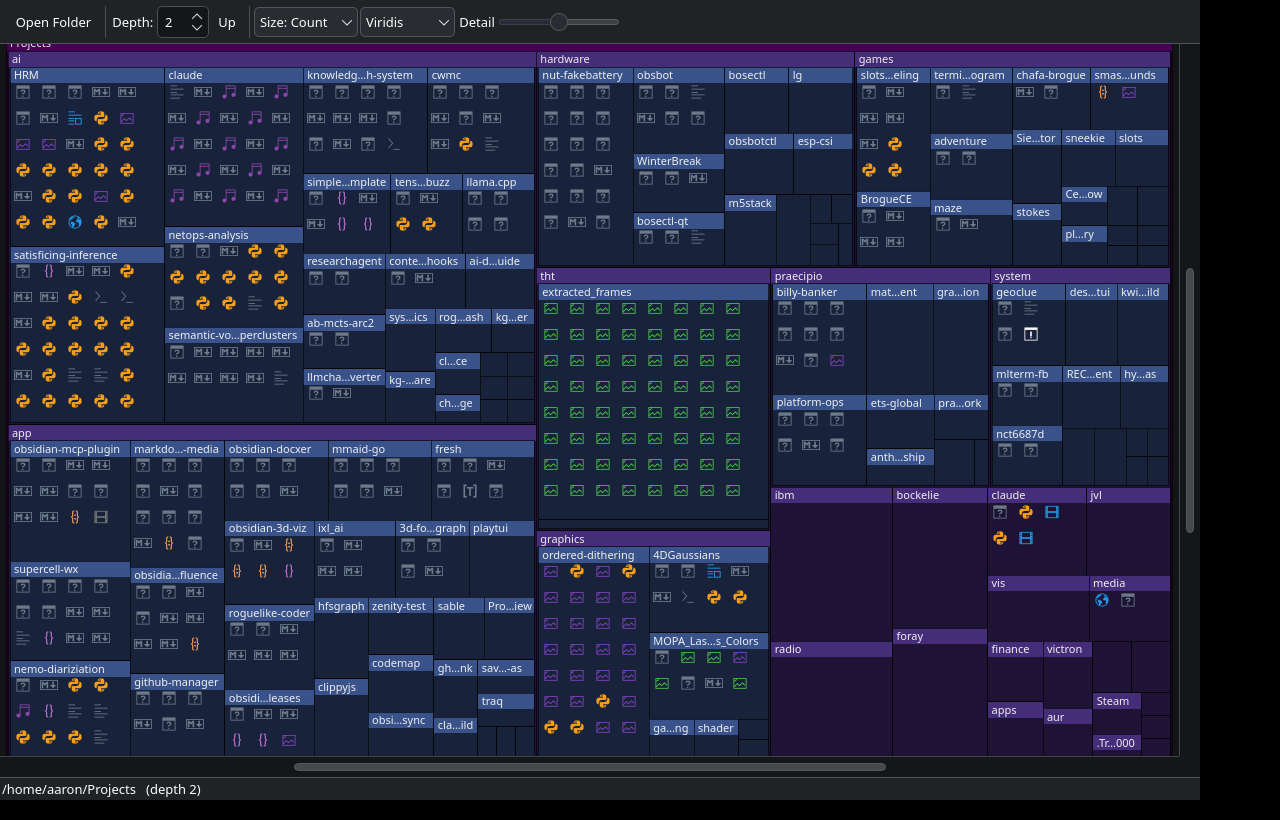
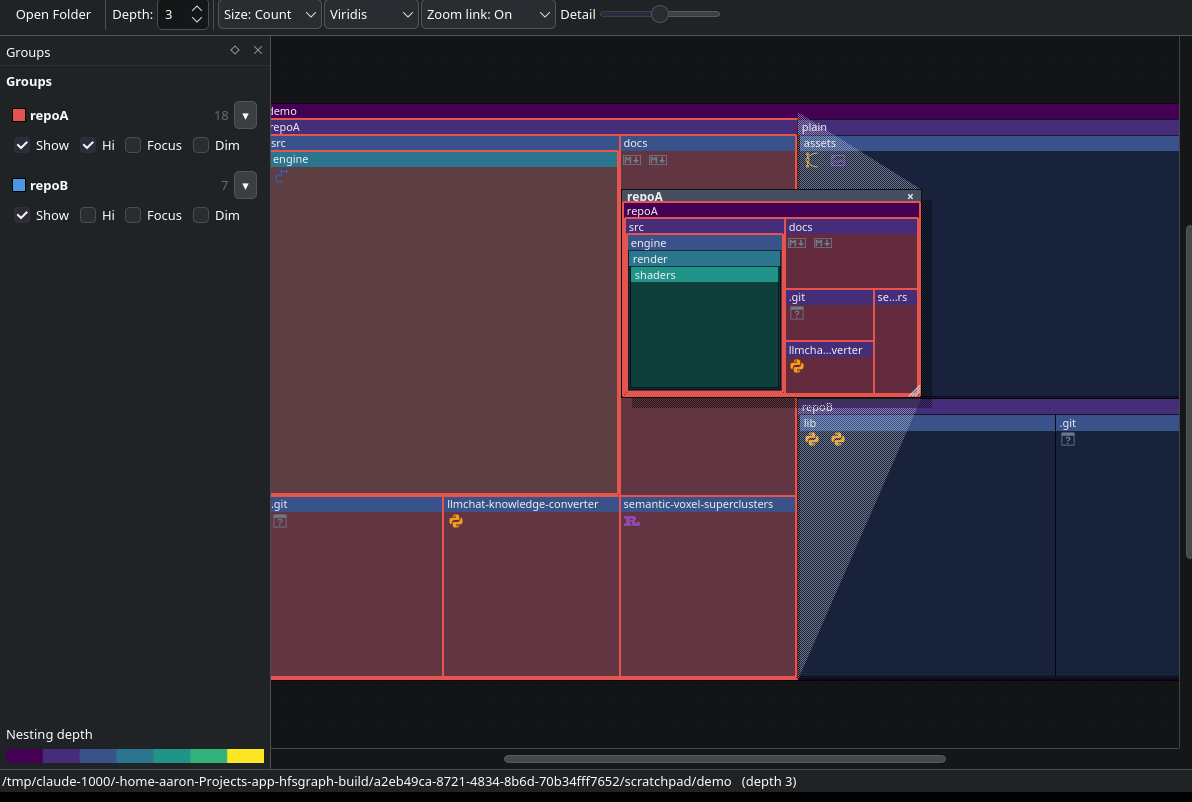
docs(readme): new hero image showing groups overlay + investigation frame
Replace the treemap-overview screenshot with a composite that shows the layers
built since: a git-worktree group highlighted red from the left Groups dock, and a
floating investigation frame magnifying that subtree (deeper scan) tied to its
origin by the dithered zoom-from frustum. Updated alt text + caption and linked
ADR-102/301/303/304.

Claude-Session: https://claude.ai/code/session_01MBrJEdqiFJLU9rYu5YmAtC

diff --git a/README.md b/README.md
@@ -14,11 +14,15 @@ reveals deeper structure as you zoom in (no fixed render depth), and the content
 directory — its child directories and, at the leaf, its files as icons — populate as cells
 grow large enough on screen.
 
-![hfsgraph rendering ~/Projects as a squarified treemap — each directory a rectangle subdivided among its children, area by file count, coloured by depth (Viridis), with file icons inside leaf directories](screenshots/treemap-overview.png)
+![hfsgraph: a squarified treemap with a git-worktree group highlighted in red (via the left Groups dock), and a floating investigation frame magnifying that subtree — tied back to its origin square by a light dithered "zoom-from" frustum — revealing deeper directories the base view doesn't](screenshots/treemap-overview.png)
 
-*A real, organically-grown `~/Projects` as a treemap: area ∝ subtree file count, colour by
-nesting depth, file icons inside leaf directories. The same tree a node-link graph turned
-into a hairball (see [ADR-301](docs/architecture/ui/)).*
+*The treemap with the semantic layer live: a git-worktree **group** highlighted red from the
+left **Groups** dock (Show / Hi / Focus / Dim), and a floating **investigation frame** —
+a non-destructive lens that magnifies a subtree and scans it deeper than the base — tied to
+its origin square by a dithered "zoom-from" frustum. Area ∝ subtree file count, colour by
+nesting depth, file icons in leaf directories. (Groups: [ADR-102](docs/architecture/core/);
+treemap: [ADR-301](docs/architecture/ui/); frames & lenses: [ADR-303](docs/architecture/ui/),
+[ADR-304](docs/architecture/ui/).)*
 
 ## Where things are
 